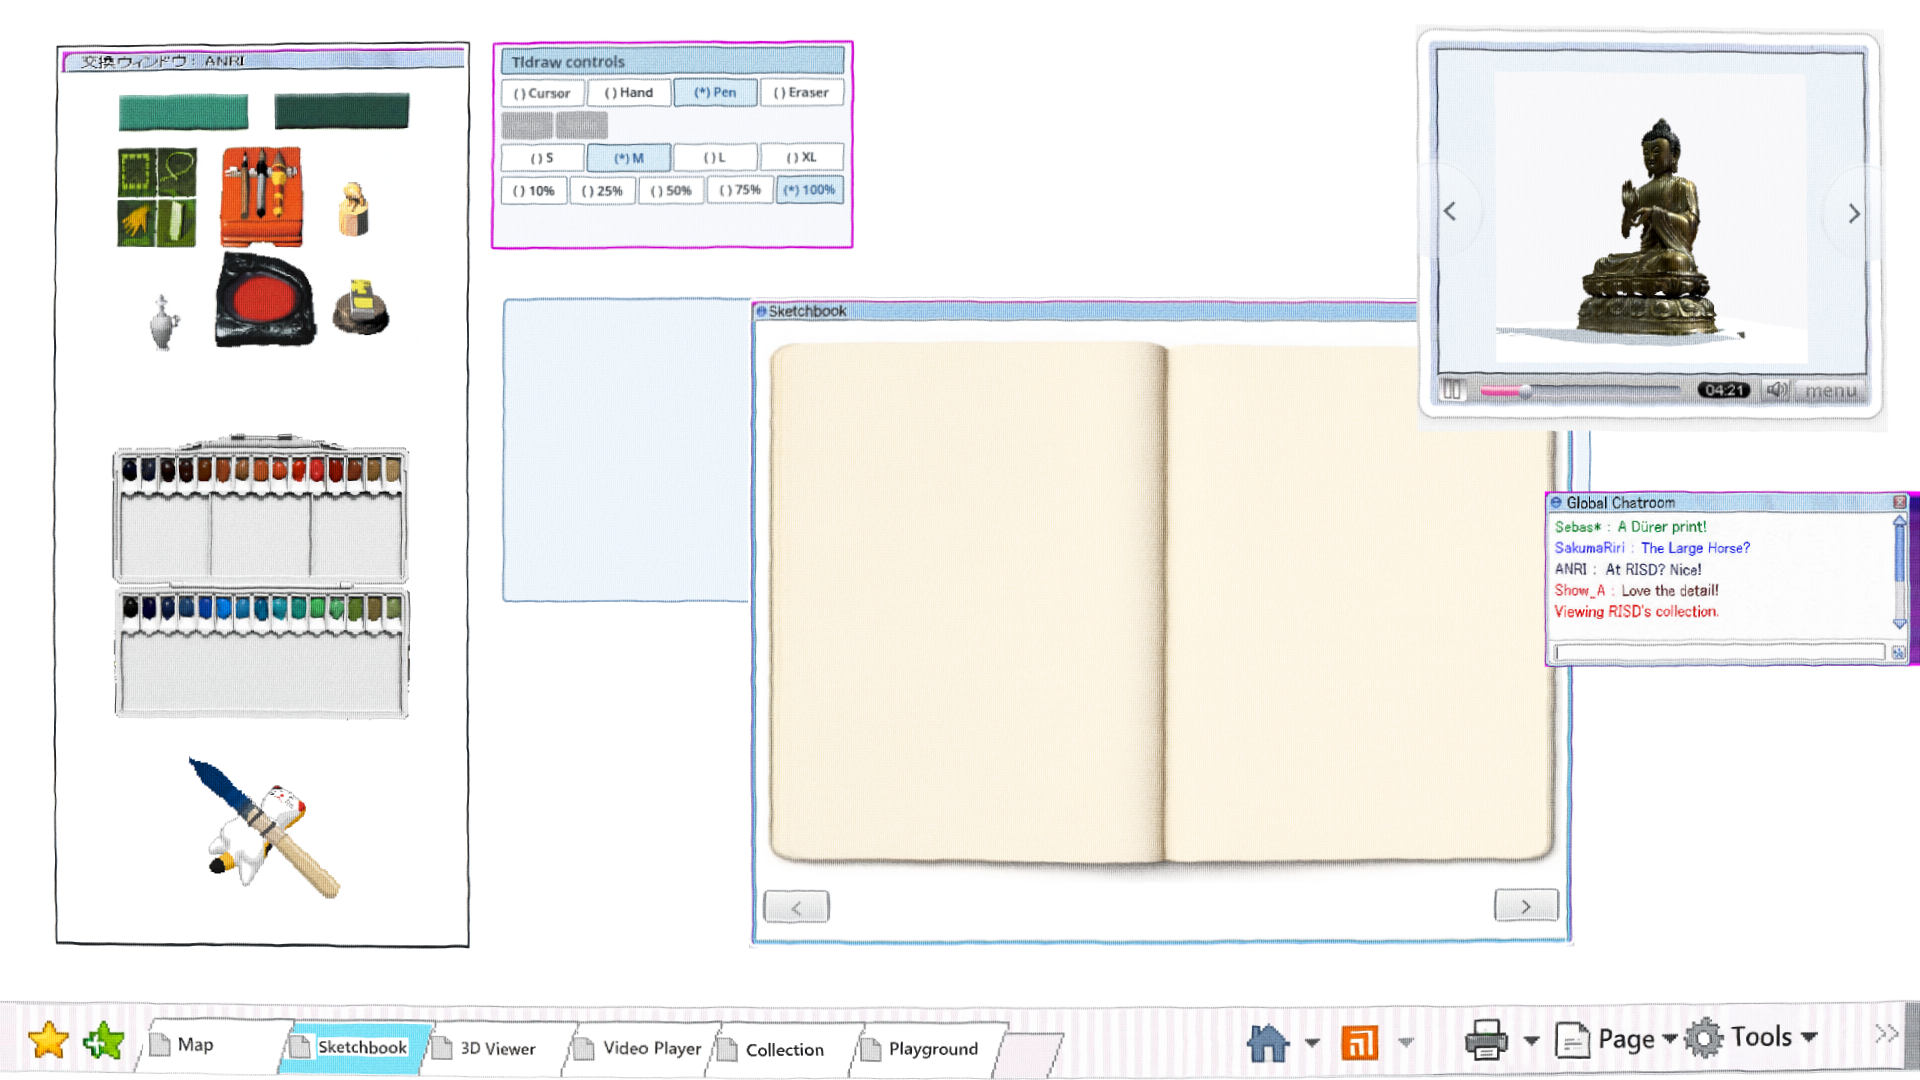
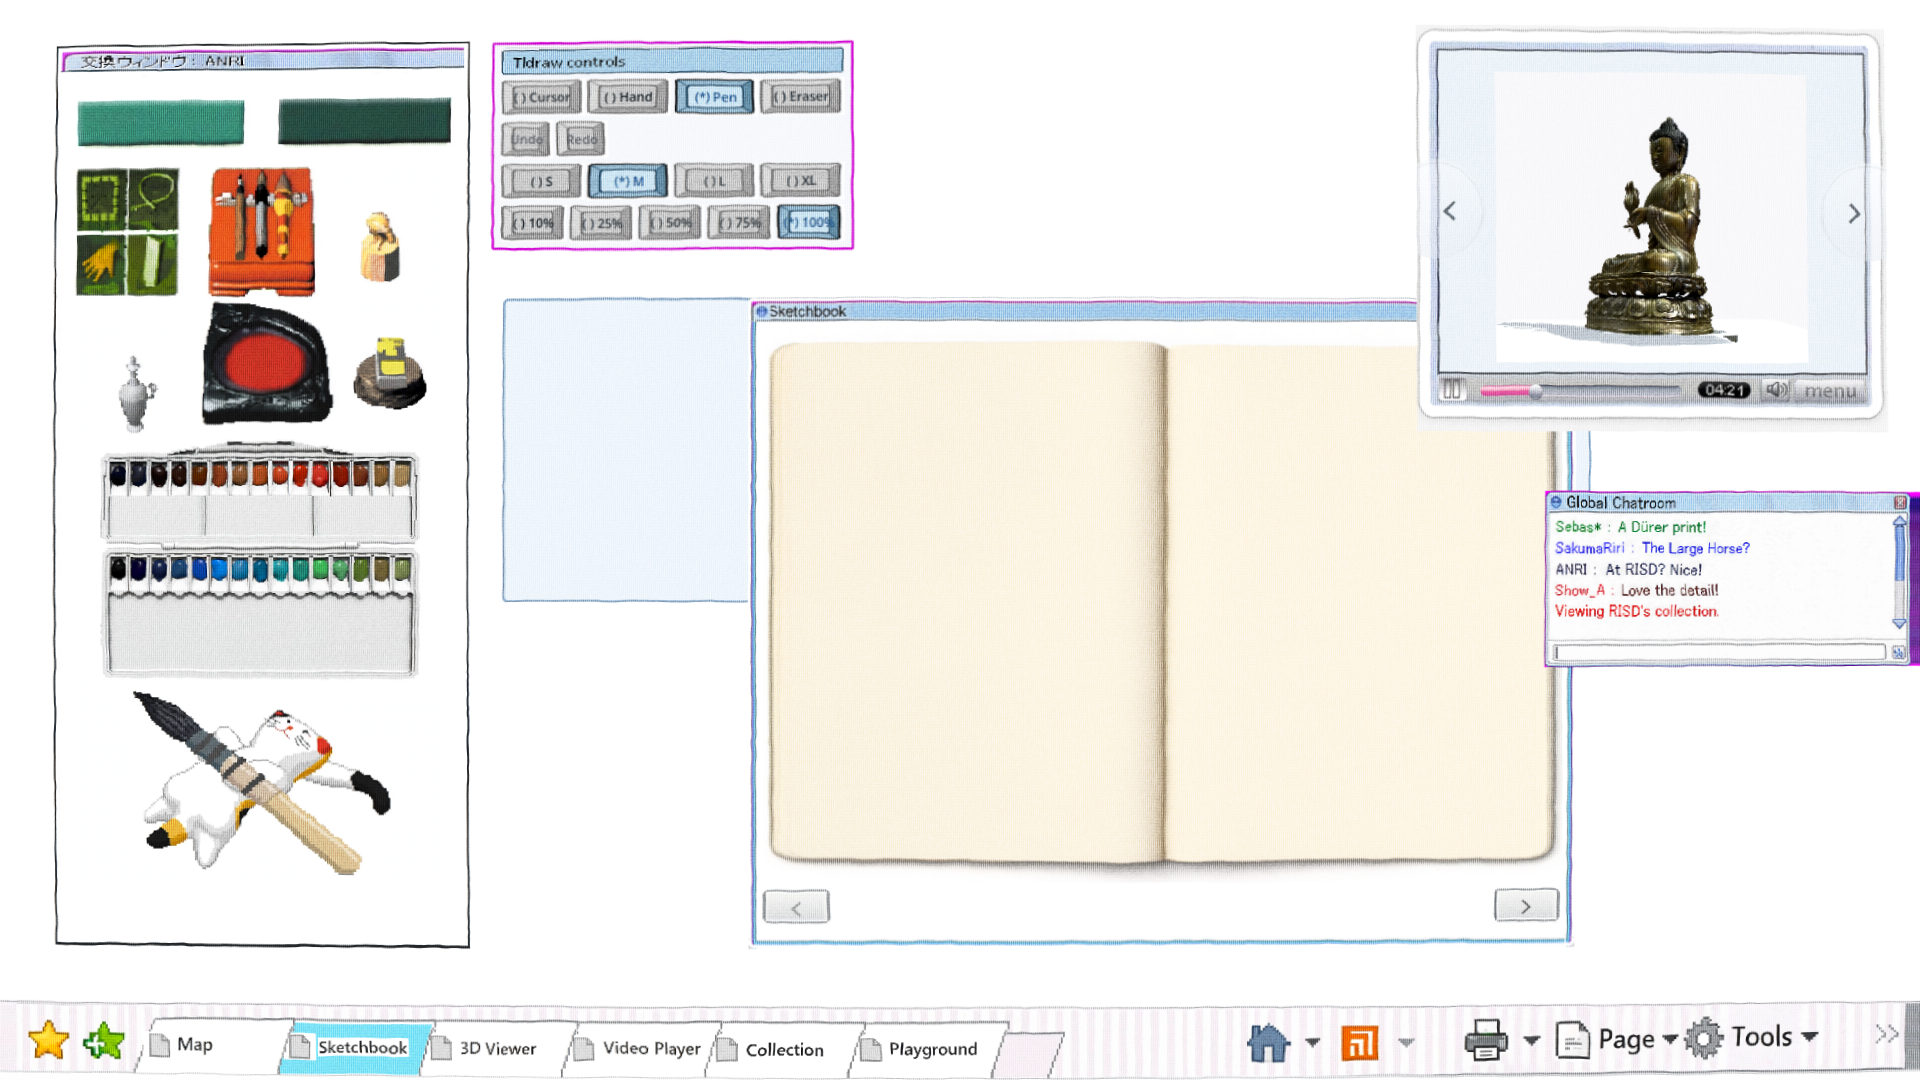
feat(sketchbook): use Muse for ANRI controls and full palette

diff --git a/docs/evidence/sketchbook-anri/README.md b/docs/evidence/sketchbook-anri/README.md
@@ -1,16 +1,16 @@
 # ANRI paint-window prototype
 
-The opt-in `?paintbox=anri` view puts the preserved toolbox, interactive palette, and cat brush rest in one tall `交換ウィンドウ：ANRI` window. Tldraw controls remain a separate movable window and use radio-style buttons for cursor, hand, pen, eraser, S/M/L/XL, and 10/25/50/75/100% opacity; undo and redo enable from actual stroke history.
+The opt-in `?paintbox=anri` view uses the complete Muse reconstruction: both material bars, six small green tools, orange tool case, freestanding tools, red pad, two-row interactive palette, and cat brush sit in one tall `交換ウィンドウ：ANRI` window. Tldraw controls remain a separate movable window; their titlebar and normal, hover, and selected button skins come from a second Muse reconstruction pass. Godot supplies the labels, hit areas, and working cursor, hand, pen, eraser, undo, redo, S/M/L/XL, and opacity states.
 
 ![ANRI window and separate controls](01-layout.png)
 
 ![Drawing still reaches the sketchbook](02-drawn.png)
 
-Muse edit `run-f28bd2a5c04295a923b23a25` produced one preserved-layout donor through OpenRouter for **$0.01**. The runtime uses its toolbox group, the original interactive palette and brush assets, and an exact lossless crop of the supplied Japanese title.
+Muse edit `run-f28bd2a5c04295a923b23a25` produced the preserved full-height paint-window interior for **$0.01**. Muse edit `run-da77a73a15c0c566182d7d54` reconstructed the control window and its three live button states for **$0.01**. Both ran through OpenRouter. The runtime uses the complete paint-window donor, generated control skins, deterministic interaction overlays, and an exact lossless crop of the supplied Japanese title.
 
 Verification:
 
 - `scripts/check.sh`: passed.
 - `godot --headless --path . --script res://modules/sketchbook/playtest/tldraw_controls_check.gd`: 9/9 passed.
-- Fresh Web export `2c08b3c`: every Shell tab opened in Chrome; Sketchbook drawing produced `02-drawn.png`.
+- Fresh Web export `db900e7-dirty`: Chrome rendered the complete Muse interior and generated control states; Sketchbook drawing produced `02-drawn.png`.
 - Existing frozen Sketchbook suite: 38/47 on the local build branch. Its pre-existing layout constants and screenshot expectations disagree with the checked-in desktop implementation; this prototype does not rewrite that frozen acceptance surface.
